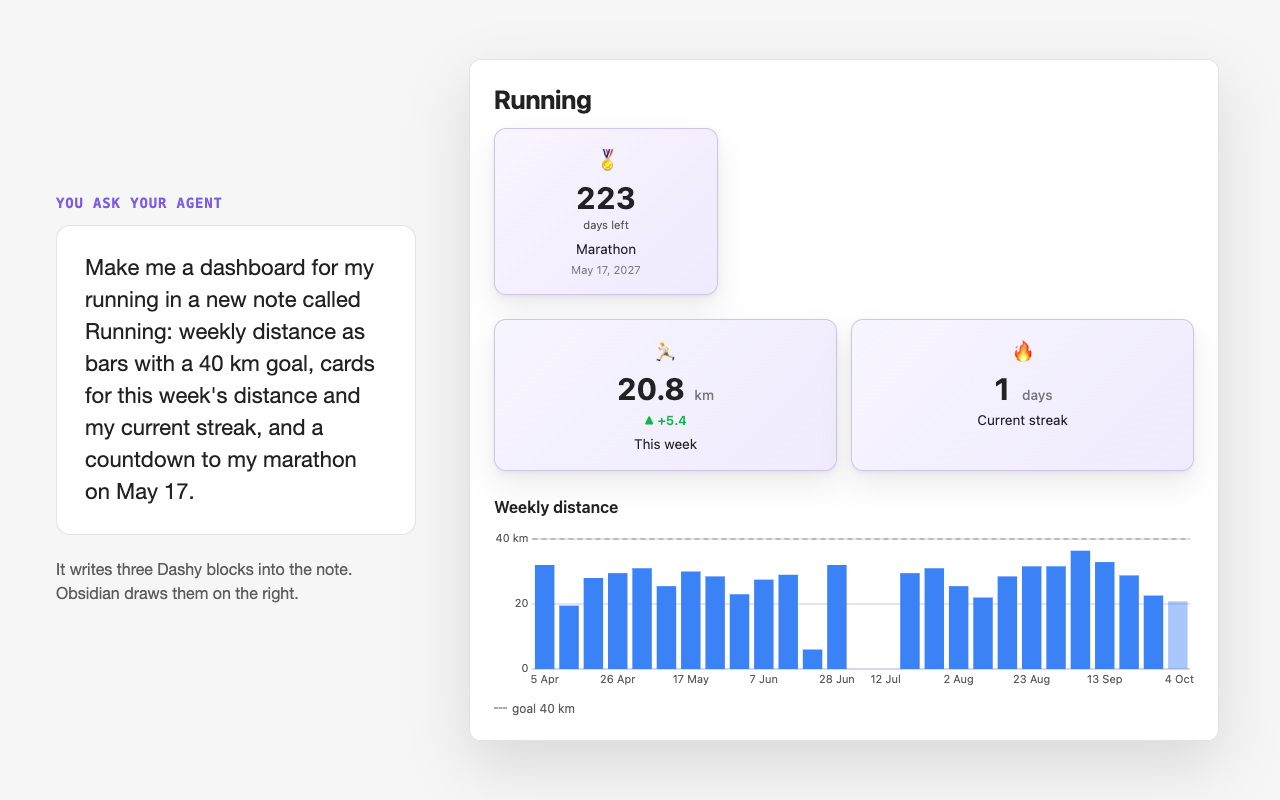
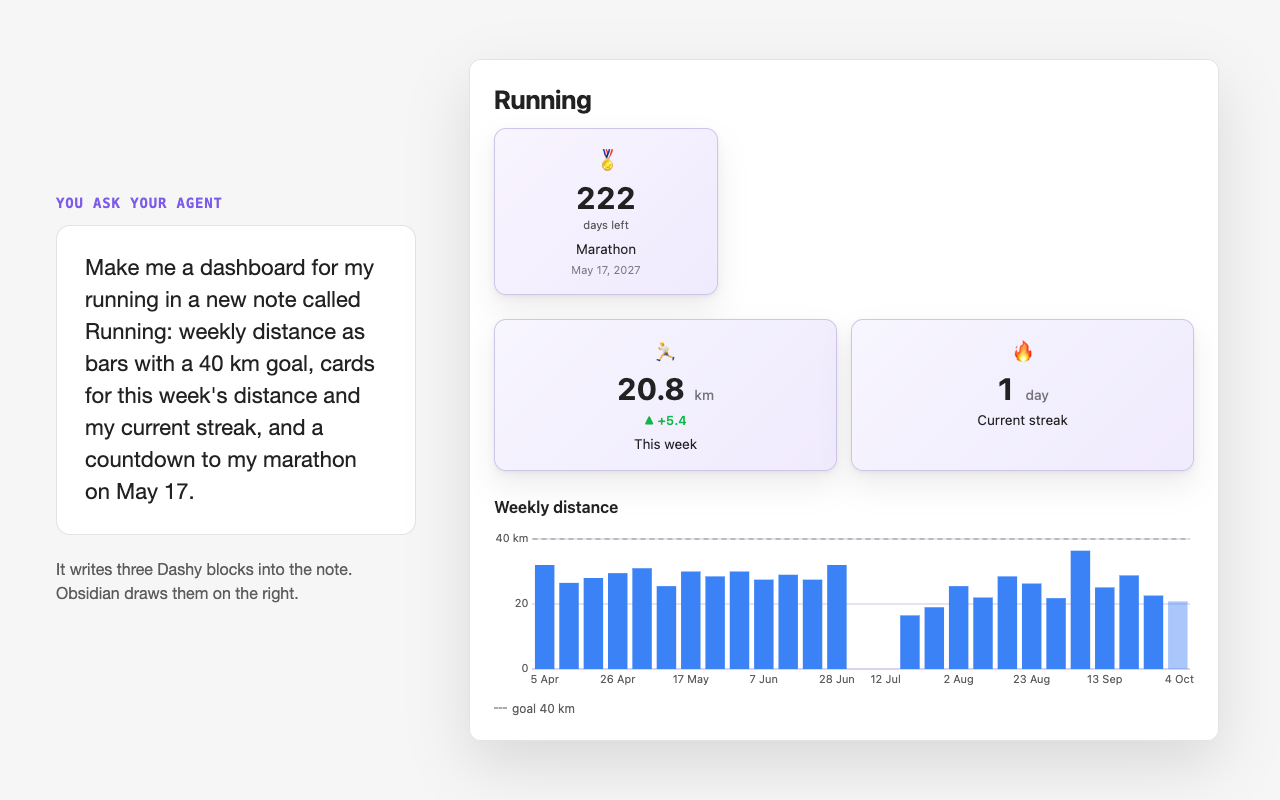
docs(screens): the hero retaken with "1 day"; the old hero retired
With the count noun fix the agent's streak card reads "1 day", so the
2.0 hero is taken again from the same note. The alt text no longer
names the countdown's days or this week's distance: the demo vault ends
today, so those change every day the picture is retaken.

The previous hero, Training.md and its whole-window shot, is no longer
shown anywhere since the agent hero replaced it in the README. The note,
its capture and the two pictures go.

Backlog: B-184

diff --git a/e2e/capture.spec.ts b/e2e/capture.spec.ts
@@ -191,18 +191,6 @@ for (const theme of ["obsidian", "moonstone"] as const) {
         await setUp(win, theme);
         const view = win.locator(READING_VIEW);
 
-        // The opening picture: the whole window, cut under the last block
-        // rather than mid-card, with the note's title in it.
-        await openNote(win, "Training.md", ".dashy-chart-svg");
-        const heat = await view.locator(".block-language-heatmap").last().boundingBox();
-        if (!heat) throw new Error("capture: the hero heatmap is not on screen");
-        const heroBottom = heat.y + heat.height + 24;
-        if (heroBottom > HEIGHT) throw new Error(`capture: the hero runs to ${Math.round(heroBottom)}px, past the window`);
-        await win.screenshot({
-            path: path.join(SHOTS, `hero-${suffix}.png`),
-            clip: { x: 0, y: 0, width: WIDTH, height: Math.round(heroBottom) },
-        });
-
         await openNote(win, "Charts.md", ".dashy-chart-svg");
         const crops: [string, import("@playwright/test").Locator][] = [
             ["chart-weekly", view.locator(".dashy-chart").nth(0)],

diff --git a/README.md b/README.md
@@ -19,7 +19,7 @@ Plain YAML you can read and edit. No JavaScript, no Dataview, works on your phon
 
 <picture>
   <source media="(prefers-color-scheme: dark)" srcset="https://raw.githubusercontent.com/Dimagious/dashsidian/HEAD/docs/screens/agent-hero-dark.png">
-  <img alt="Left, a request to an AI agent: a running dashboard with weekly distance as bars against a 40 km goal, this week's distance, the current streak and a countdown to a marathon on May 17. Right, the Obsidian note it wrote: a countdown with 223 days left, two cards for this week's 20.8 km and the current streak, and weekly bars under a dashed 40 km line."
+  <img alt="Left, a request to an AI agent: a running dashboard with weekly distance as bars against a 40 km goal, this week's distance, the current streak and a countdown to a marathon on May 17. Right, the Obsidian note it wrote: a countdown to the marathon, two cards for this week's distance and the current streak, and weekly bars under a dashed 40 km line."
        src="https://raw.githubusercontent.com/Dimagious/dashsidian/HEAD/docs/screens/agent-hero-light.png">
 </picture>
 
